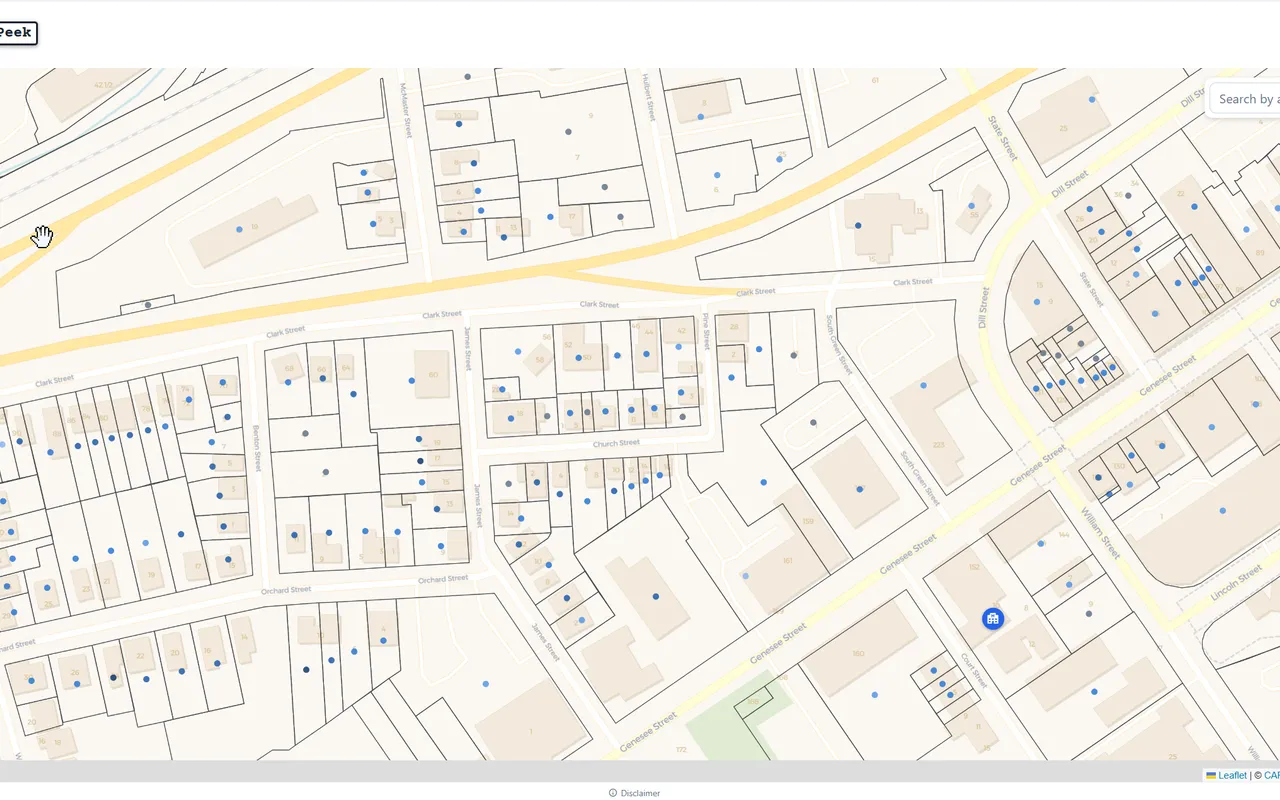
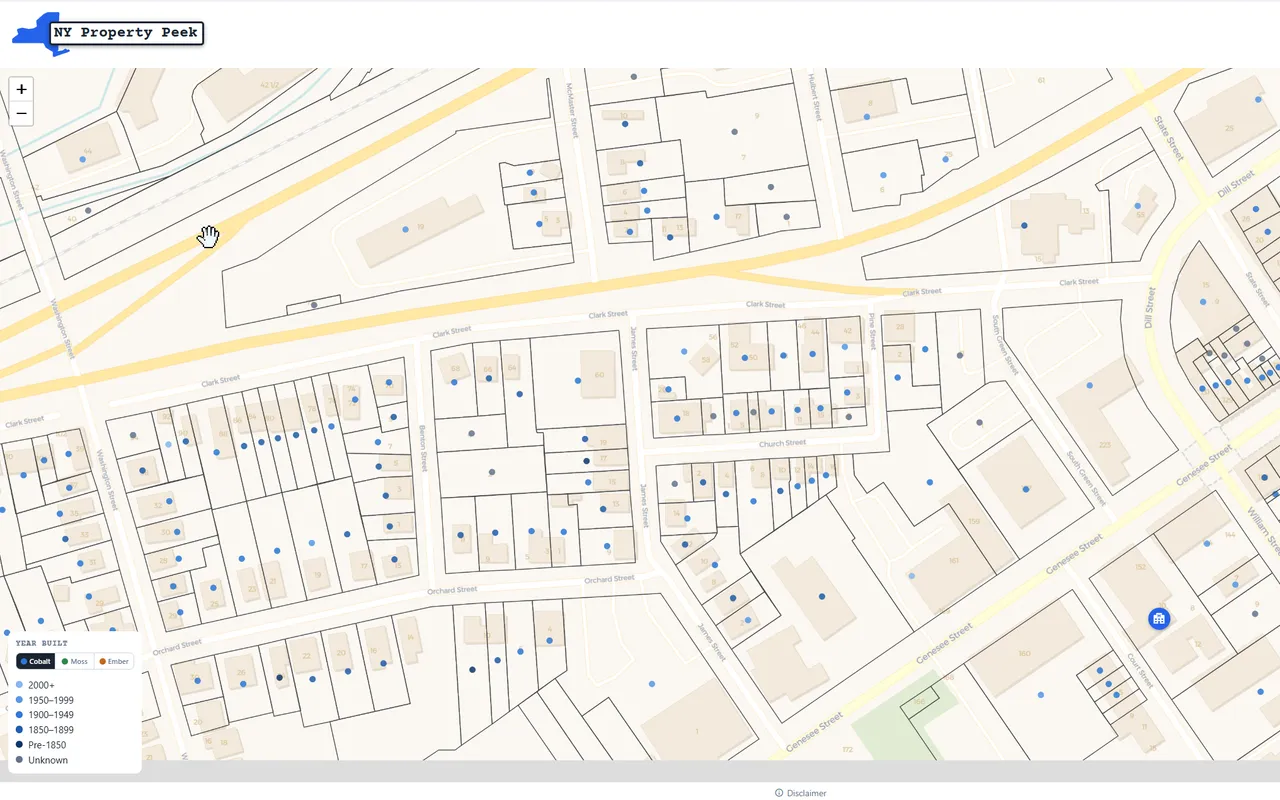
Finish NY Property Peek page: decision write-up and details screenshot
Re-crop the map screenshot so the app logo and legend stay in frame,
and drop the uploaded PNG now that it's converted.

diff --git a/apps/ny-property-peek.html b/apps/ny-property-peek.html
@@ -74,7 +74,9 @@
 
         <div class="project-section">
           <h2>One interesting decision</h2>
-          <p>[PLACEHOLDER: one real challenge or decision. For example: how you handle 5.5 million parcels quickly, or what the map shows in the 24 counties without boundary data.]</p>
+          <p>Clicking the map looks up the property at that spot. But each of the 5.5 million parcels is stored as a single point near the middle of its lot, not its full outline. A plain "find the nearest point" search always returns something: click the middle of a lake or a large park, and you'd get a house half a mile away, shown as if it were the spot you clicked.</p>
+          <p>So the lookup only accepts a match within 75 meters (about 250 feet). Click a lot and you get that property; click empty space and you correctly get nothing.</p>
+          <p>It stays fast because of a spatial index, which organizes parcels by location the way a filing cabinet organizes folders by drawer. Instead of checking all 5.5 million parcels, the lookup opens only the drawer for the area around the click and compares the few properties inside, so results come back in milliseconds.</p>
         </div>
       </div>
     </section>
@@ -86,7 +88,9 @@
           <a href="../assets/img/apps/ny-property-peek-map.webp">
             <img src="../assets/img/apps/ny-property-peek-map.webp" width="1280" height="800" loading="lazy" alt="Street-level map of a town center with property lot outlines, each lot marked by a dot colored by the year it was built, and a year-built legend in the corner.">
           </a>
-          <div class="placeholder-img">[PLACEHOLDER: screenshot of a selected property's details panel]</div>
+          <a href="../assets/img/apps/ny-property-peek-details.webp">
+            <img src="../assets/img/apps/ny-property-peek-details.webp" width="1280" height="800" loading="lazy" alt="A selected property on the map with a details panel showing a photo of the building, the year it was built, its school district, acreage, and assessed and market values.">
+          </a>
         </div>
       </div>
     </section>
